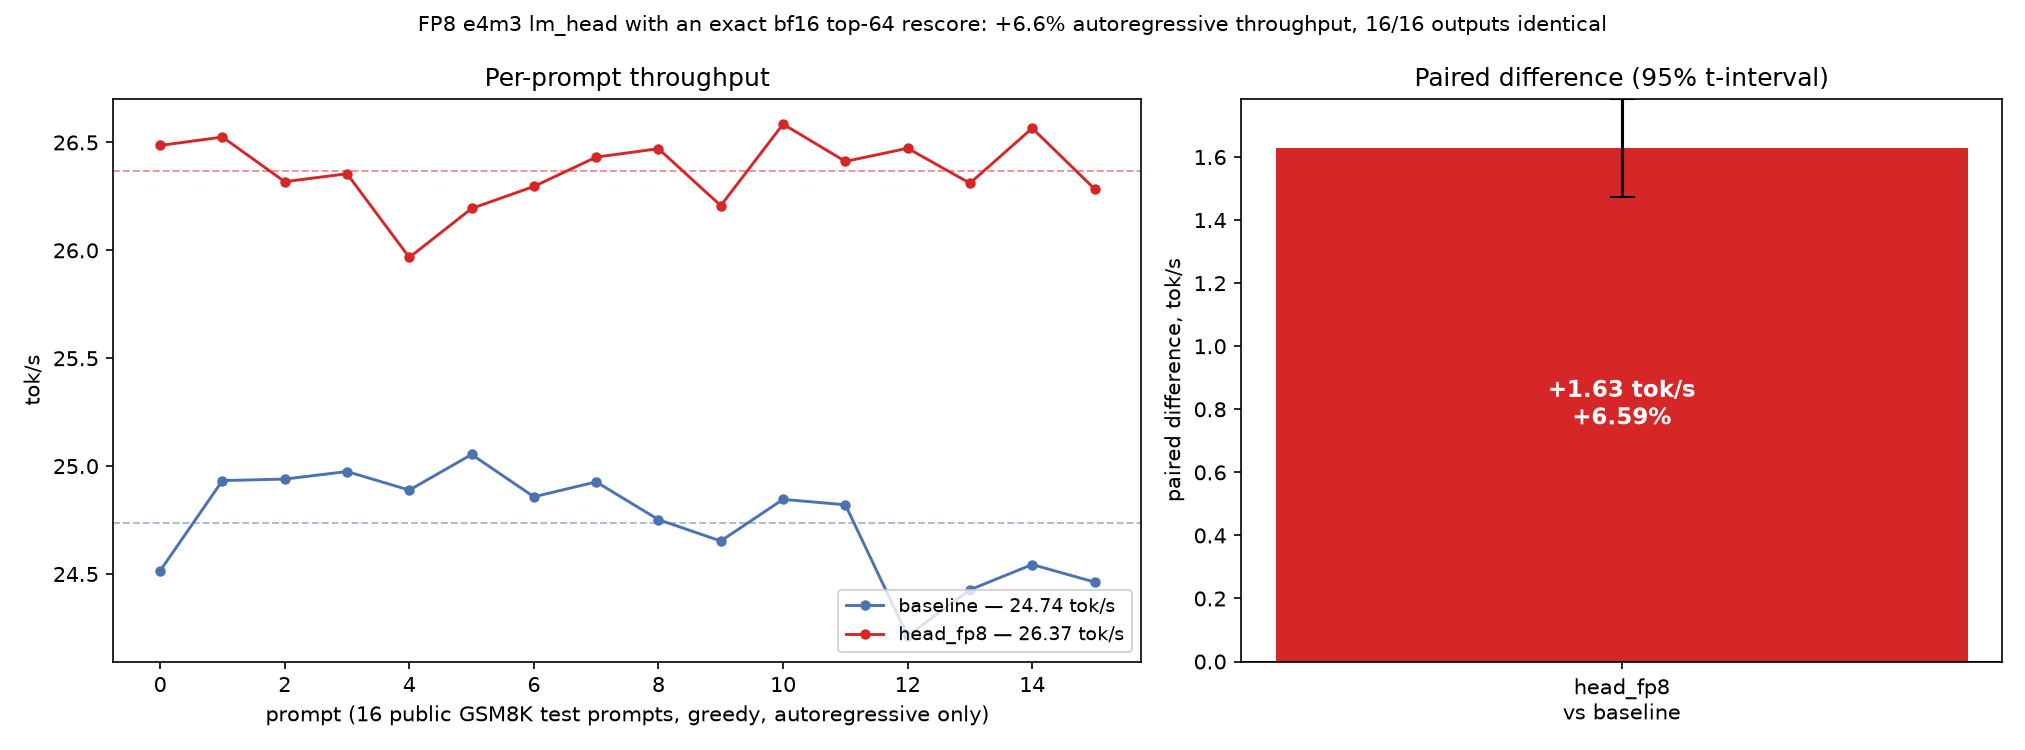
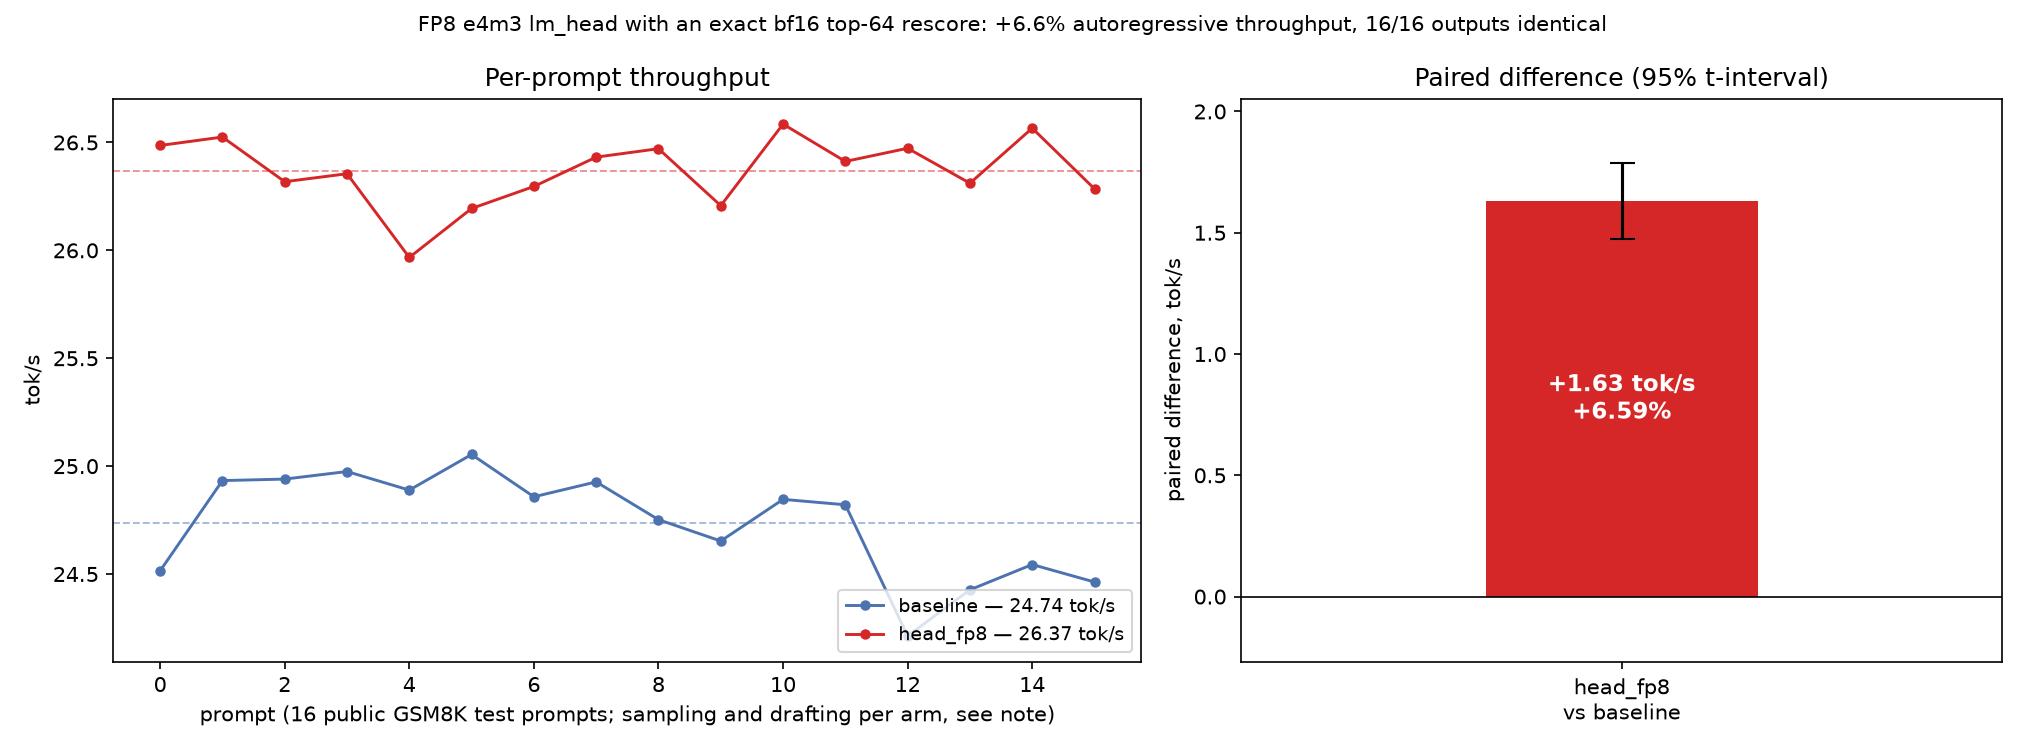
harness: neutral axis label on the arm plot

Changed region(s): [[0.5911, 0.184, 0.9956, 0.8893], [0.0933, 0.92, 0.5289, 0.9813]]

diff --git a/tools/dflash2/harness/plot_ar.py b/tools/dflash2/harness/plot_ar.py
@@ -45,7 +45,7 @@ def main():
         ax1.plot(range(len(idx)), ys, marker="o", ms=4, lw=1.4, color=colours[k % 4],
                  label=f"{name} — {statistics.mean(ys):.2f} tok/s")
         ax1.axhline(statistics.mean(ys), color=colours[k % 4], lw=0.9, ls="--", alpha=0.5)
-    ax1.set_xlabel("prompt (16 public GSM8K test prompts, greedy, autoregressive only)")
+    ax1.set_xlabel("prompt (16 public GSM8K test prompts; sampling and drafting per arm, see note)")
     ax1.set_ylabel("tok/s")
     ax1.set_title("Per-prompt throughput")
     ax1.legend(fontsize=9, loc="lower right")
